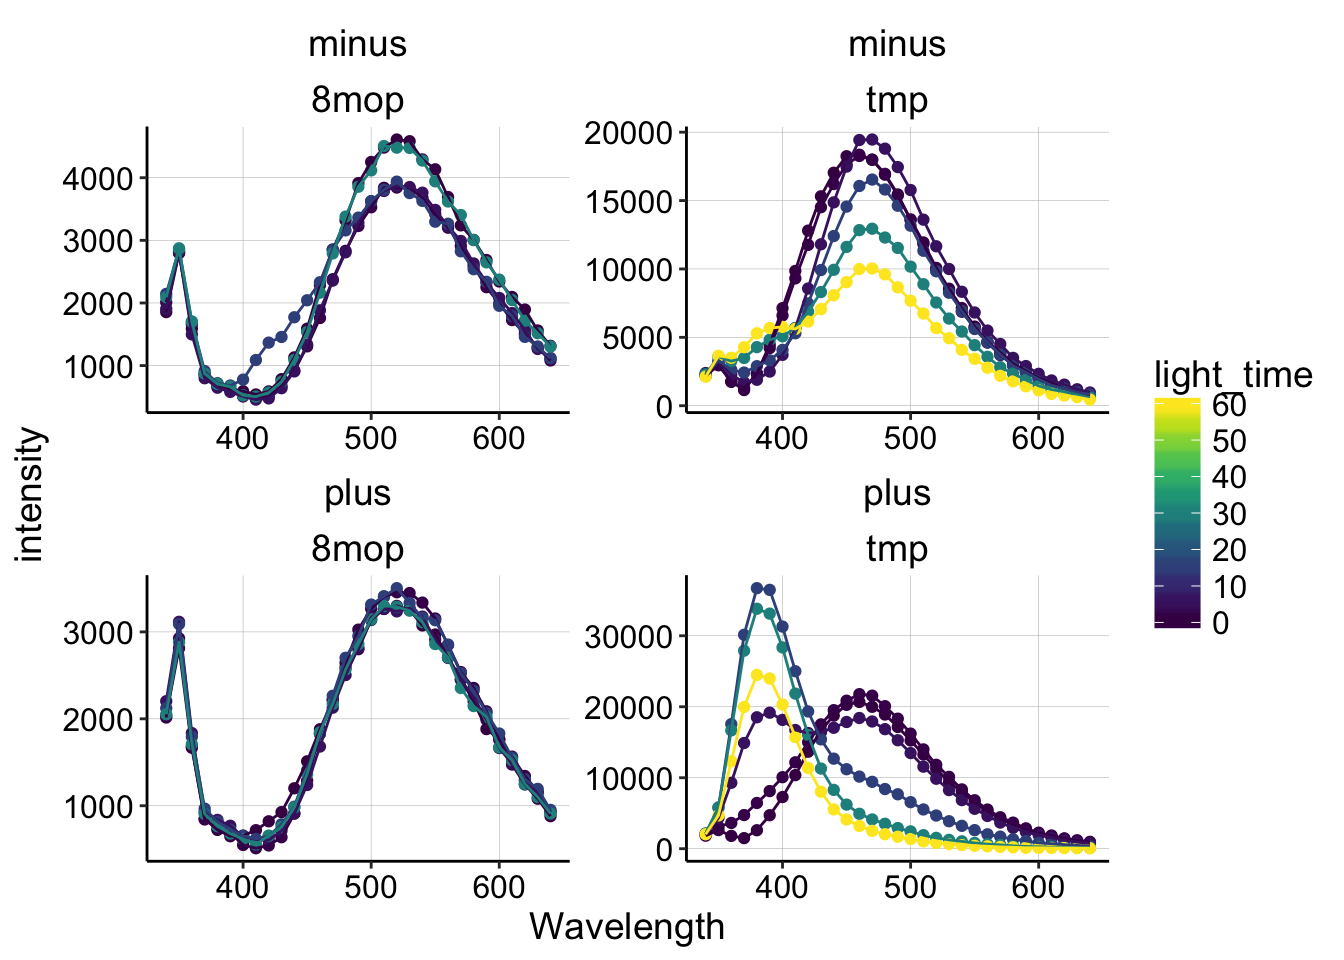
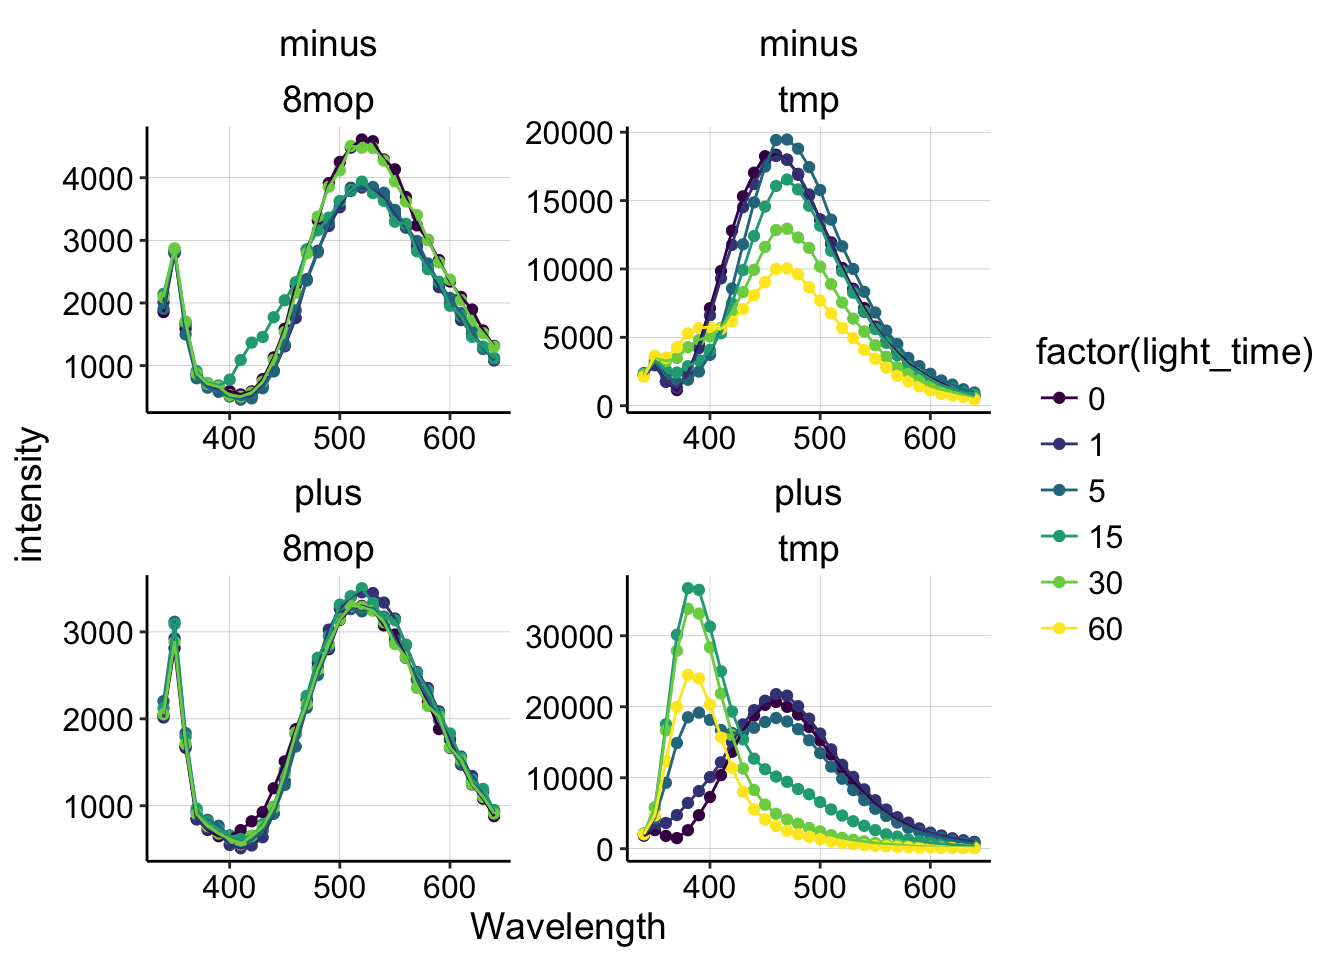
psoralen crosslinking platereader html

diff --git a/IDA/12_04_18_psoralen_biofilm/Analysis/11_29_18_psoralen_crosslinking_analysis.html b/IDA/12_04_18_psoralen_biofilm/Analysis/11_29_18_psoralen_crosslinking_analysis.html
@@ -206,6 +206,15 @@ $(document).ready(function () {
 
 </div>
 
+<div id="TOC">
+<ul>
+<li><a href="#purpose">Purpose</a><ul>
+<li><a href="#protocol">Protocol</a></li>
+</ul></li>
+<li><a href="#results">Results</a></li>
+<li><a href="#conclusions">Conclusions</a></li>
+</ul>
+</div>
 
 <pre class="r"><code>library(tidyverse)
 library(cowplot)
@@ -221,19 +230,59 @@ source(&quot;../../tools/echem_processing_tools.R&quot;)
 source(&quot;../../tools/plotting_tools.R&quot;)
 
 theme_set(theme_1())</code></pre>
-<p><a href="https://www.annualreviews.org/doi/pdf/10.1146/annurev.bb.10.060181.000441">psoralen review (Annual Review Biophysics and Bioengineering, 1981)</a></p>
+<div id="purpose" class="section level1">
+<h1>Purpose</h1>
+<p>Recall that Jackie was excited about using a psoralen molecule as a DNA crosslinker to inhibit DNA CT in a biofilm. Psoralen molecules intercalate into DNA, similar to PYO, and upon irradiation with UVA light (365nm) crosslinking reactions are induced. The idea being that psoralen interstrand crosslinks would break pi bonds in the affected nucleotides, inhibiting charge transport. To my knowledge, the effect of psoralen crosslinks on DNA CT has never been tested in vitro.</p>
+<p>It turns out that there are many different psoralen derivatives that are available to purchase. Long ago I purchased 8-methoxypsoralen (8MOP), and trioxsalen (trimethylpsoralen - TMP). Upon reading some reviews like this one, <a href="https://www.annualreviews.org/doi/pdf/10.1146/annurev.bb.10.060181.000441">psoralen review (Annual Review Biophysics and Bioengineering, 1981)</a>, I saw that the different derivatives may have very different binding and crosslinking kinetics with DNA. Therefore, I wanted to confirm in vitro that the psoralen derivative I chose to work with was reacting in the expected way with DNA. So I setup an assay with 8MOP and TMP with or without calf thymus DNA, and with or without UVA light.</p>
+<p>Specifically, I set out to do a simple fluorescence based assay to reproduce this figure with the psoralens I had:</p>
 <pre class="r"><code>knitr::include_graphics(&quot;psoralen_crosslink_fluorescence_example.png&quot;)</code></pre>
-<p><img src="psoralen_crosslink_fluorescence_example.png" width="50%" style="display: block; margin: auto;" /></p>
+<p><img src="psoralen_crosslink_fluorescence_example.png" width="50%" style="display: block; margin: auto;" /> You can see that the monoadduct is first formed, which causes a fluorescence shift, then at later times there’s a fluorescence decrease, which is associated with the diadduct/crosslink formation.</p>
+<div id="protocol" class="section level2">
+<h2>Protocol</h2>
+<p>Briefly, the plan was to incubate the psoralens (8MOP or TMP) with or without calf thymus DNA, and shine 365nm light on eppendorf tubes containing the mixtures for varying amounts of time. In this way, we should be able to distinguish degradation from DNA specific crosslinks.</p>
+<p>The fluorescence excitation and emission maxima were found with free psoralen solutions ahead of time. Excitation was at 315nm.</p>
+<p>10uM psoralen (from 2mM EtOH stock) was used with calf thymus DNA. I believe the experiment was done in PBS, but I do not remember whether the PBS was 50mM or 137mM NaCl. Also, I believe the experiment was done with the 2mg/mL ctDNA stock diluted 10x, but I cannot be sure. Therefore, I believe the tubes were made with the following:</p>
+<ul>
+<li>10uM psoralen</li>
+<li>+/- ~200ng/mL ctDNA</li>
+<li>fill with PBS</li>
+</ul>
+<p>Then, I irradiated eppendorf tubes with long wave (365nm) UV light from a handheld lamp for 0,1,5,15,30 or 60 min and took fluorescence spectra of the mixtures.</p>
+</div>
+</div>
+<div id="results" class="section level1">
+<h1>Results</h1>
+<p>First, I’m going to read in a text file of the plate reader data. Note that this file contains the acquisition parameters from the plate reader. Here I also assign the appropriate metadata to the labeled wells.</p>
 <pre class="r"><code>df &lt;- read_csv(&quot;../Data/psoralen_crosslinking_platereader/10uM_TMP_8MOP_DNA_UVA_Timecourse.csv&quot;, 
     skip = 13) %&gt;% gather(key = label, value = intensity, -Wavelength)
 
 labels &lt;- read_csv((&quot;../Data/psoralen_crosslinking_platereader/psoralen_platereader_label_metadata.csv&quot;))
 
-pr_data &lt;- left_join(df, labels, by = &quot;label&quot;)</code></pre>
-<pre class="r"><code>ggplot(pr_data, aes(x = Wavelength, y = intensity, group = factor(light_time), 
-    color = light_time)) + geom_point() + geom_line() + facet_wrap(DNA ~ 
-    molecule, scale = &quot;free&quot;) + scale_color_viridis()</code></pre>
+pr_data &lt;- left_join(df, labels, by = &quot;label&quot;)
+
+head(pr_data)</code></pre>
+<pre><code>## # A tibble: 6 x 6
+##   Wavelength label   intensity molecule DNA   light_time
+##        &lt;int&gt; &lt;chr&gt;       &lt;int&gt; &lt;chr&gt;    &lt;chr&gt;      &lt;int&gt;
+## 1        340 8MOP  0      1854 8mop     minus          0
+## 2        350 8MOP  0      2798 8mop     minus          0
+## 3        360 8MOP  0      1589 8mop     minus          0
+## 4        370 8MOP  0       853 8mop     minus          0
+## 5        380 8MOP  0       669 8mop     minus          0
+## 6        390 8MOP  0       623 8mop     minus          0</code></pre>
+<p>So, you can see that each well is associated with a specific psoralen (8MOP or TMP), and either contained DNA (plus) or not (minus), and was incubated with the light for between 0 and 60min (light_time).</p>
+<p>Let’s look at all of the spectra at once to get a feel for what happened.</p>
+<pre class="r"><code>ggplot(pr_data, aes(x = Wavelength, y = intensity, color = factor(light_time))) + 
+    geom_point() + geom_line() + facet_wrap(DNA ~ molecule, scale = &quot;free&quot;) + 
+    scale_color_viridis(discrete = T)</code></pre>
 <p><img src="11_29_18_psoralen_crosslinking_analysis_files/figure-html/unnamed-chunk-3-1.png" width="672" style="display: block; margin: auto;" /></p>
+<p>Ok, we can take a few things away from this plot:</p>
+<ol style="list-style-type: decimal">
+<li>8MOP does not undergo significant fluorescence changes under any condition (with or without DNA).</li>
+<li>TMP in solution without DNA (minus) loses fluorescence during 365nm irradiation.</li>
+<li>TMP with DNA (plus) undergoes a dramatic fluorescence shift/change during irradiation.</li>
+</ol>
+<p>Already, we can conclude that 8MOP probably did not react to form crosslinks in this experiment, so let’s focus on the TMP condition with DNA.</p>
 <pre class="r"><code>pr_data %&gt;% filter(DNA == &quot;plus&quot; &amp; molecule == &quot;tmp&quot;) %&gt;% ggplot(., 
     aes(x = Wavelength, y = intensity, group = factor(light_time), 
         color = factor(light_time))) + geom_point() + geom_line() + 
@@ -242,6 +291,13 @@ pr_data &lt;- left_join(df, labels, by = &quot;label&quot;)</code></pre>
     y = 40000, label = &quot;Monoadduct&quot;, color = &quot;black&quot;) + geom_label(x = 347, 
     y = 25000, label = &quot;Diadduct&quot;, color = &quot;black&quot;) + scale_color_viridis(discrete = T)</code></pre>
 <p><img src="11_29_18_psoralen_crosslinking_analysis_files/figure-html/unnamed-chunk-4-1.png" width="672" style="display: block; margin: auto;" /></p>
+<p>Hopefully, this plot should remind you of figure 4 from the 1981 review (above)! We see a peak around 460 that corresponds to the free TMP, and quickly (after only 5min) we see a peak emerge around 380, which should correspond to the monoadduct. Then at 30 and 60min, we see that 380 peak decrease, which should indicate the formation of the diadduct!</p>
+</div>
+<div id="conclusions" class="section level1">
+<h1>Conclusions</h1>
+<p>In the past I had attempted to use 8MOP, probably because it was cheaper. These results indicate that 8MOP probably doesn’t form any DNA crosslinks in similar conditions, and therefore it should not be used. Instead TMP, showed a strong fluorescence shift and subsequent decrease that is consistent with mono and diadduct (crosslink) formation. Therefore I will definitely use TMP from now on. 10uM seems like a reasonable amount to use, and I also figured out that its possible to make 2mM stock solutions in ethanol, so I think we have a convenient system to use psoralen now. Small amounts of ethanol are unlikely to affect Pseudomonas.</p>
+<p>Moving forward, I would like to directly test the toxicity of TMP + 365nm light on PA cultures. One problem with using TMP to target eDNA, is that TMP likely gets into cells as well…</p>
+</div>
 
 
 
